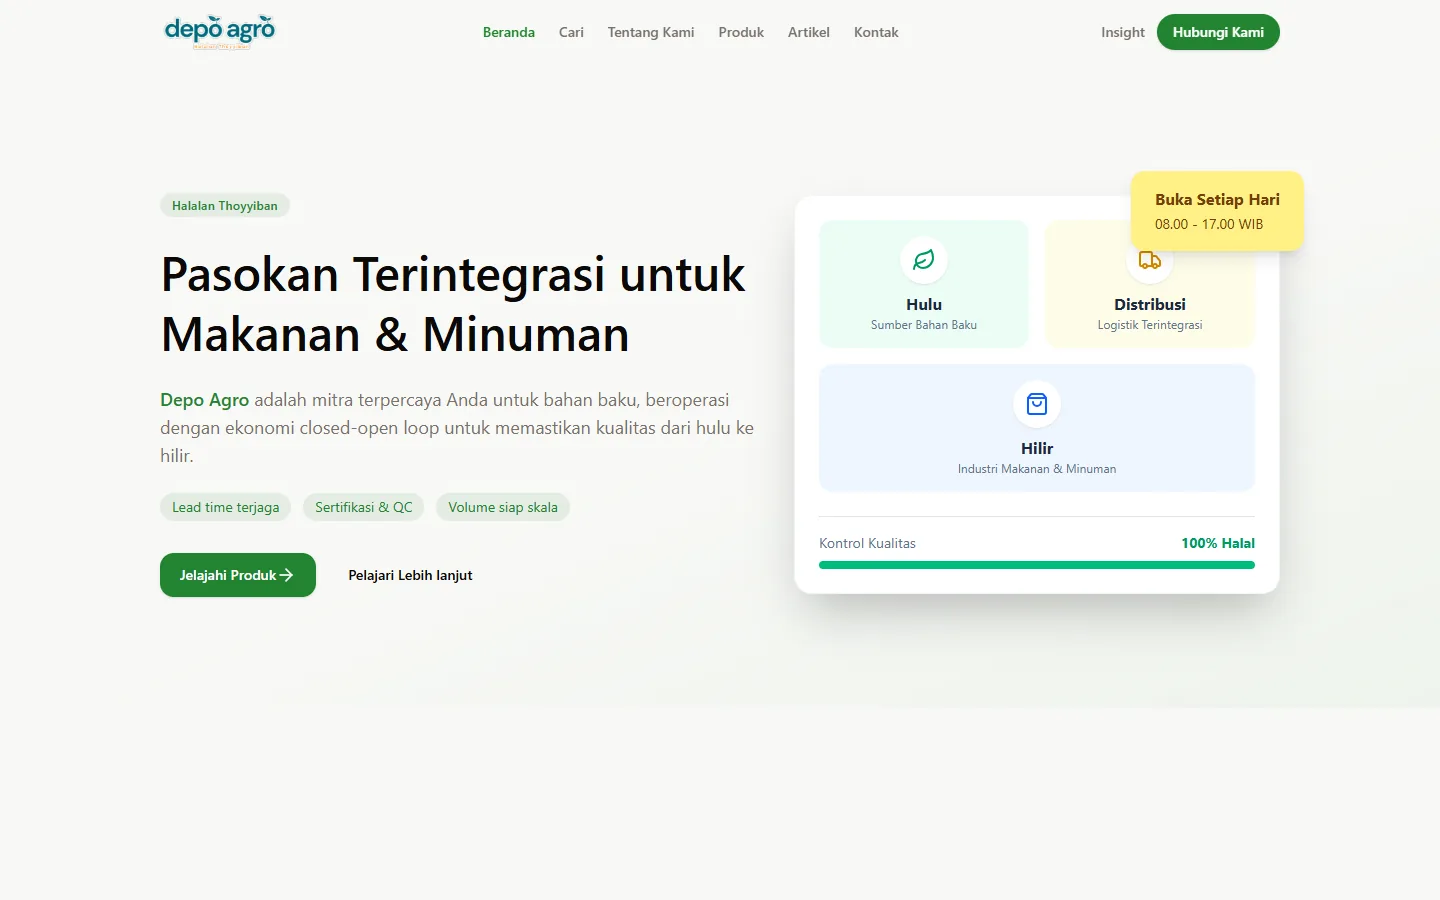
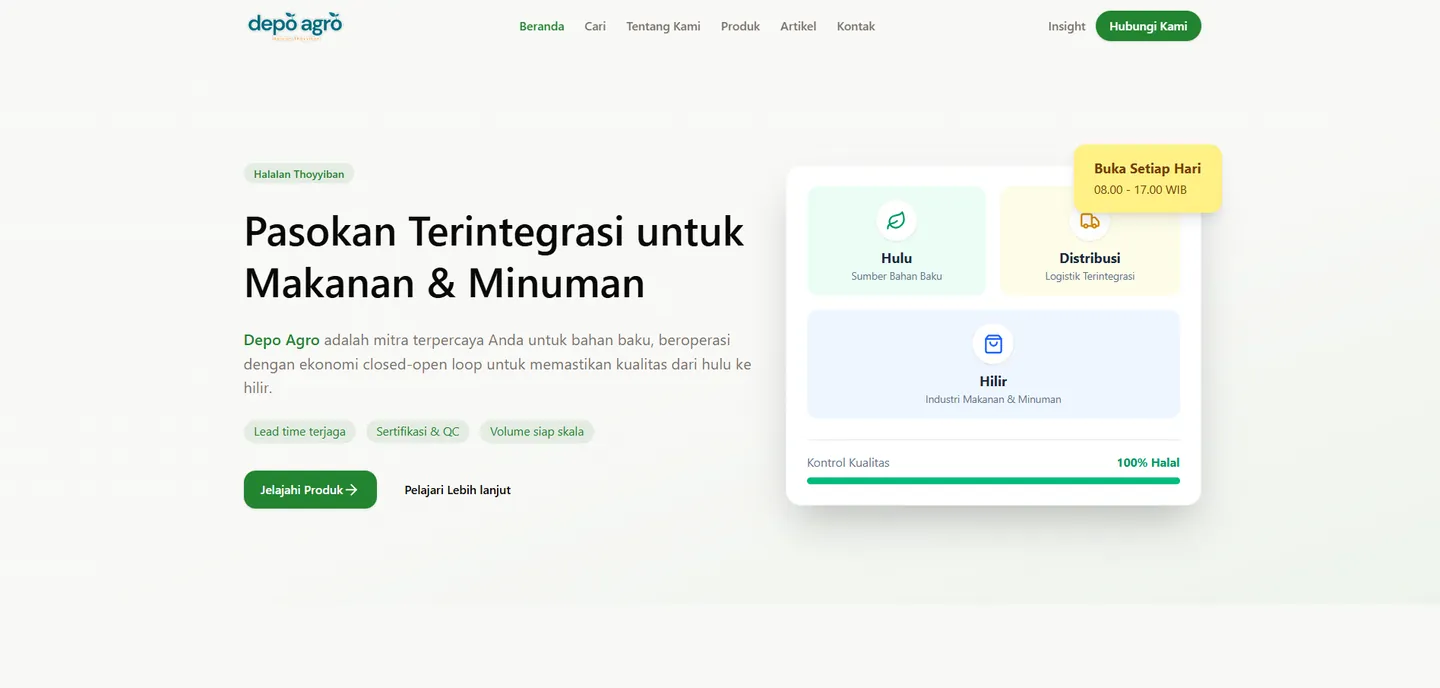
feat: refreshed previews and a glass home stack
Preview and detail shots for BMU, Core, Smart Test and Tour were dropped
in fresh (manual 16:9 grabs) — normalised to webp and the hover frame is
now 16:9 so a wide landscape screenshot fills it instead of being cropped
to the old 3:2.

The home "selected work" cards lose their solid panel. Each card is now
frosted glass — translucent with a backdrop blur — so it reads as the page
showing through rather than a beige box, while still being opaque enough to
cover the card sliding up beneath it. A fully transparent card was tried
first and rejected: with no fill, two cards' text overlaps and turns
unreadable through the sticky slide-over. The mockup on the right is
enlarged and floats on a layered shadow for depth; the text column on the
left is narrowed and its title stepped down.

Verified in the browser: the glass covers cleanly through the whole
transition and every card stays legible.

diff --git a/src/styles/components.css b/src/styles/components.css
@@ -552,8 +552,8 @@
   top: 0;
   left: 0;
   z-index: 60;
-  width: clamp(260px, 27vw, 430px);
-  aspect-ratio: 1200 / 780;
+  width: clamp(280px, 30vw, 470px);
+  aspect-ratio: 16 / 9;
   pointer-events: none;
   opacity: 0;
   scale: 0.94;
@@ -667,20 +667,27 @@
   width: calc(100% - var(--gutter) * 2);
   min-height: min(72vh, 620px);
   display: grid;
-  grid-template-columns: minmax(0, 1.12fr) minmax(0, 0.88fr);
-  gap: clamp(20px, 3.6vw, 56px);
+  grid-template-columns: minmax(0, 0.8fr) minmax(0, 1.2fr);
+  gap: clamp(24px, 4vw, 64px);
   align-items: center;
-  padding: clamp(26px, 3.4vw, 52px);
-  /* Sits on the page ground rather than on a panel of its own — the
-     hairline alone separates it. */
-  background: var(--bg);
-  border: 1px solid var(--hairline);
+  padding: clamp(20px, 2.6vw, 44px);
+  /* Frosted glass, not the old solid panel: translucent + blur so the
+     page shows through, yet opaque enough to cover the card sliding up
+     beneath it (a fully transparent card leaves both cards' text
+     overlapping mid-transition). This is the glassmorphism read. */
+  background: rgba(239, 237, 230, 0.58);
+  background: color-mix(in srgb, var(--bg) 58%, transparent);
+  backdrop-filter: blur(16px) saturate(1.08);
+  -webkit-backdrop-filter: blur(16px) saturate(1.08);
+  border: 1px solid rgba(255, 255, 255, 0.45);
+  border-radius: 22px;
+  box-shadow: 0 30px 70px -42px rgba(22, 24, 31, 0.42);
   will-change: transform, opacity;
 }
 .case-card:last-of-type { margin-bottom: 0; }
 
 .case-card__no { color: var(--case-ink, var(--accent)); margin-bottom: 16px; }
-.case-card__title { font-size: clamp(2.2rem, 5.2vw, 4.1rem); margin-bottom: 18px; }
+.case-card__title { font-size: clamp(1.9rem, 4.2vw, 3.3rem); margin-bottom: 16px; }
 .case-card__blurb {
   font-weight: 300;
   font-size: var(--step-1);
@@ -724,13 +731,19 @@
 }
 
 /* ─── selected mockup (home stack) ─────────────────────────────── */
+/* The card has no panel of its own, so the mockup floats: a soft layered
+   shadow reads as depth, and a hairline light edge gives a glassy lift. */
 .case-card__shot {
-  width: min(100%, 560px);
+  width: min(100%, 720px);
   aspect-ratio: 16 / 10;
   object-fit: cover;
-  border-radius: 14px;
+  border-radius: 18px;
   background: var(--surface-2);
-  box-shadow: 0 0 0 1px rgba(22, 24, 31, 0.1), 0 30px 56px -28px rgba(22, 24, 31, 0.5);
+  box-shadow:
+    0 1px 0 rgba(255, 255, 255, 0.55) inset,
+    0 0 0 1px rgba(22, 24, 31, 0.08),
+    0 12px 28px -12px rgba(22, 24, 31, 0.32),
+    0 48px 90px -36px rgba(22, 24, 31, 0.55);
 }
 
 /* ─── about ────────────────────────────────────────────────────
